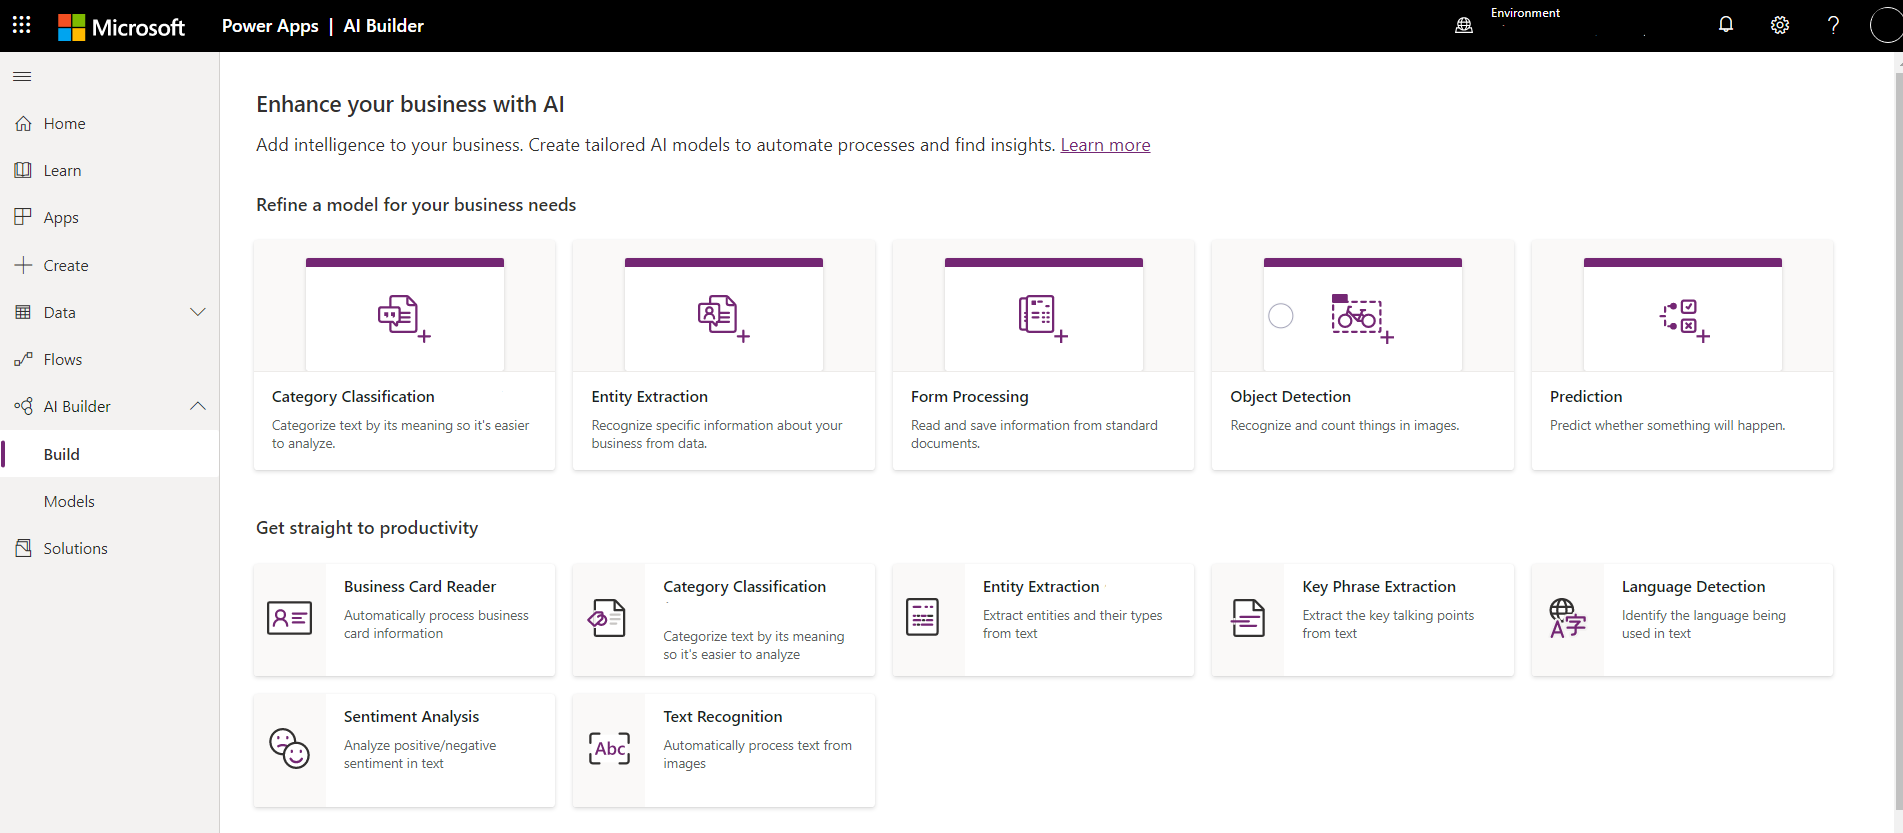
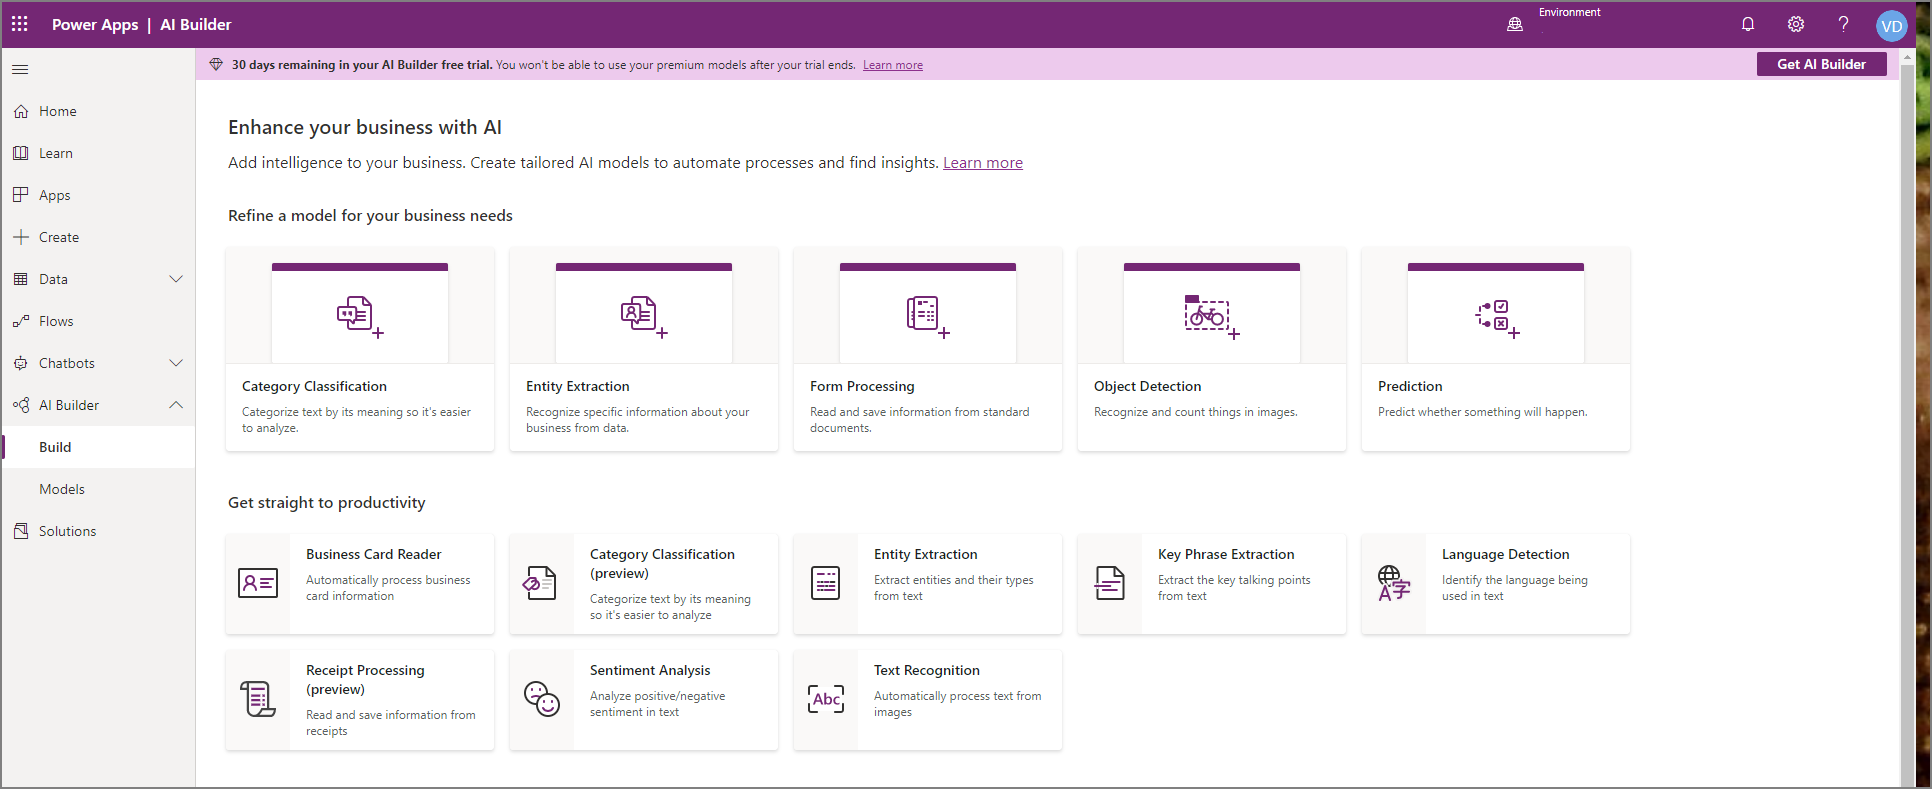
screens

diff --git a/ai-builder-docs/flow-receipt-processing.md b/ai-builder-docs/flow-receipt-processing.md
@@ -31,11 +31,17 @@ ms.reviewer: v-dehaas
 
 1. Select **File** as the input type, then set *My receipt* as the input title.
 
+    > [!div class="mx-imgBorder"]
+    > ![Trigger file flow](media/rp-flow-my-receipt.png "Manually trigger a flow screens")
+
 1. Select **+ New step**, search for *AI Builder*, and then select **Process and save information from receipts** in the list of actions.
 
 1. Specify the *My receipt* field from the trigger in the **Receipt file** input.
 
 1. In the successive actions, you can use any of the receipt values from the [model output](#output).
+
+    > [!div class="mx-imgBorder"]
+    > ![Flow example](media/rp-flow-example.png "Example flow screens")
 
 >[!NOTE]
 > Receipt values are returned as strings. To manipulate them as numbers, you can use the [float](https://docs.microsoft.com/azure/logic-apps/workflow-definition-language-functions-reference#float) or [int](https://docs.microsoft.com/azure/logic-apps/workflow-definition-language-functions-reference#int) conversion functions.

diff --git a/ai-builder-docs/model-types.md b/ai-builder-docs/model-types.md
@@ -45,6 +45,7 @@ AI Builder features prebuilt AI models that you can use in Power Apps and Power 
 |Key phrase extraction |Language | [Overview of key phrase extraction](prebuilt-key-phrase.md)
 |Language detection |Language | [Overview of language detection](prebuilt-language-detection.md)
 |Sentiment analysis |Language | [Overview of sentiment analysis](prebuilt-sentiment-analysis.md)
+|Receipt processing |Vision | [Overview of receipt processing](prebuilt-receipt-processing.md)
 |Text translation |Language | [Overview of text translation](prebuilt-text-translation.md)
 
 ### Next step
